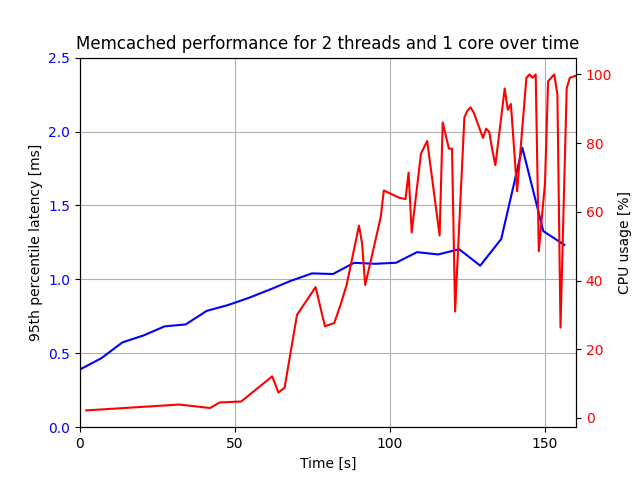
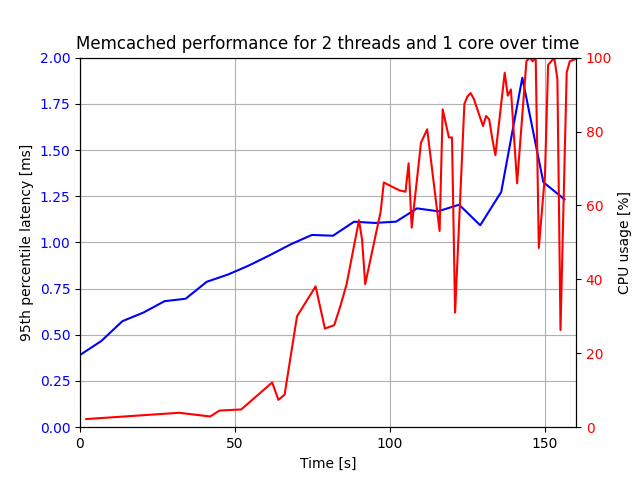
minor fixes

diff --git a/part4/main_1d.py b/part4/main_1d.py
@@ -106,7 +106,7 @@ plt.ylabel("95th percentile latency [ms]")
 plt.xlim(0, 160)
 plt.yticks(color="blue")
 plt.xticks([0, 50, 100, 150], ['0', '50', '100', '150'])
-plt.ylim(0, 2.5)
+plt.ylim(0, 2)
 plt.title("Memcached performance for 2 threads and 1 core over time")
 #plt.legend(loc="upper left")
 plt.grid()
@@ -115,6 +115,7 @@ ax2 = ax.twinx()  # instantiate a second axes that shares the same x-axis
 ax2.set_ylabel('CPU usage [%]')  # we already handled the x-label with ax1
 ax2.plot(x2, y2, color="red", label="CPU usage [%]")
 ax2.tick_params(axis='y', labelcolor="red")
+ax2.set_ylim([0, 100])
 
 # Display graph
 
@@ -132,8 +133,8 @@ plt.ylabel("95th percentile latency [ms]")
 plt.xlim(0, 160)
 plt.yticks(color="blue")
 plt.xticks([0, 50, 100, 150], ['0', '50', '100', '150'])
-plt.ylim(0, 2.5)
-plt.title("Memcached performance for 2 threads and 1 core over time")
+plt.ylim(0, 2)
+plt.title("Memcached performance for 2 threads and 2 cores over time")
 #plt.legend(loc="upper left")
 plt.grid()
 
@@ -141,6 +142,7 @@ ax2 = ax.twinx()  # instantiate a second axes that shares the same x-axis
 ax2.set_ylabel('CPU usage [%]')  # we already handled the x-label with ax1
 ax2.plot(x2_2, y2_2, color="red", label="CPU usage [%]")
 ax2.tick_params(axis='y', labelcolor="red")
+ax2.set_ylim([0, 200])
 
 # Display graph
 
